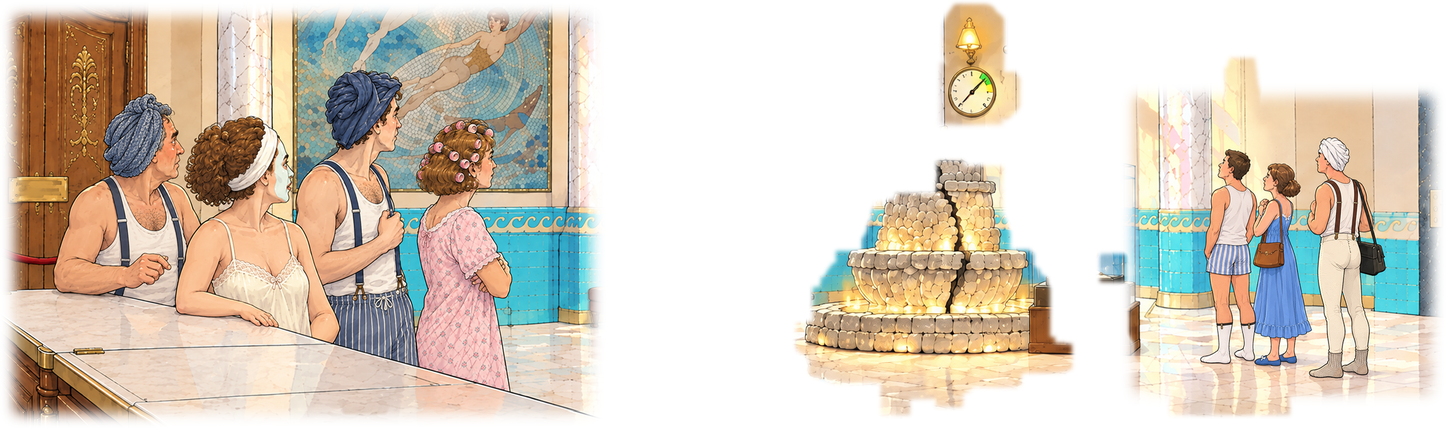
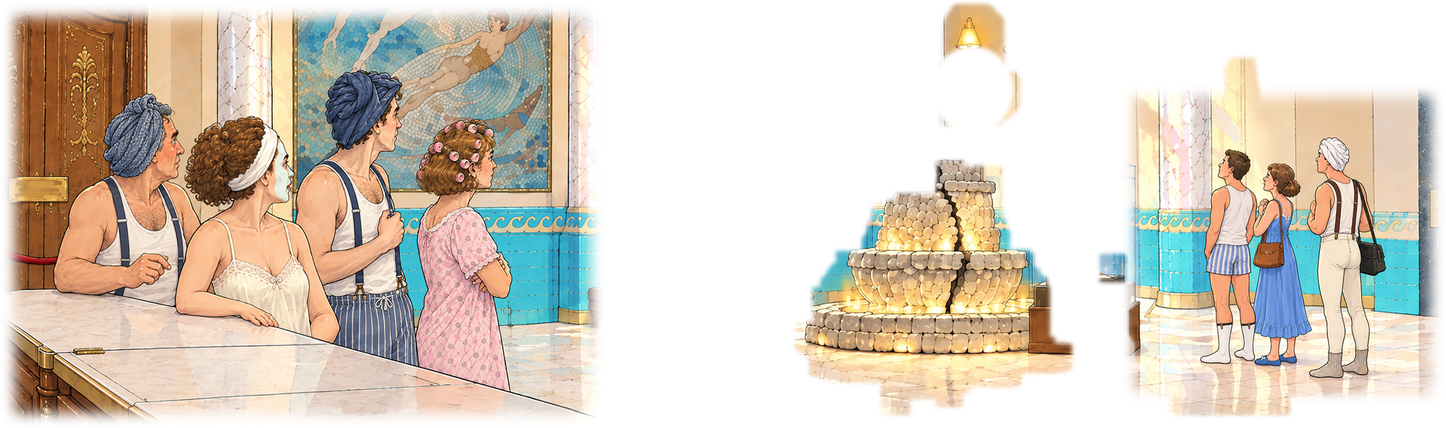
Круг 4 (Акт II) — выбор автора внесён
- слой st_w2_cascade_on без остатка снятого манометра — в assets/, прежний в work/orig_gfx/cutouts/
- W4.stairs.no_plan — строка автора (правки, AUTHOR_LINES, ТЗ, итог, слой, прохождение)
- лампа у кнопки каскада — только при включённом каскаде (спека §2.2, §3)
- темы совета witness, down — как предложено (SLOT_FLAGS)

Claude-Session: https://claude.ai/code/session_011an6ZJykkNMxyQLBZGP5aJ

Changed region(s): [[0.6224, 0.0911, 0.7158, 0.3037]]

diff --git a/PROJECT_STATUS_HYDROUDAR.md b/PROJECT_STATUS_HYDROUDAR.md
@@ -1,9 +1,10 @@
 # PROJECT_STATUS_HYDROUDAR — «Латунный янычар: Гидроудар» (BJ3)
 
-Обновлено: 14.10.2026, вечер (Акт II собран и играбелен, круг 4 выбора на странице); до того — 12.10.2026, ночь (звук готов: 66 из 66 в `assets/audio/`); до того — звук: З1 и З2 приняты и в `assets/`, 25 из 66; до того — звук: пакет З1 на приёмке; до того — 12.10.2026, поздняя ночь (пакет 8 принят и в `assets/` — графика готова: 264 из 264); до того — пакет 8 на приёмке; до того — 12.10.2026, ночь (пакет 7 — носители документов и три плана — принят и в `assets/`); до того — 12.10.2026, вечер (пакет 6 принят и в `assets/`); до того — 12.10.2026, позже (пакет 6 — юбка тележки и 17 кадров немых сцен — на приёмке); до того — 12.10.2026 (пакет 5 принят и в `assets/`; тёмные кадры до появления Кухтулху); до того — 11.10.2026, поздний вечер (пакет 5 — W1, тележка у лестницы W4, кадр прибытия вниз и щупальца, оттиски — на приёмке); до того — 11.10.2026, ночь (пакет 4, состояния Z13, манометры, новый финал — приняты и в `assets/`; до того — пакет 4 — низ: основа Z13, состояния W5/W6 — принят и в `assets/`, ветка `claude/keen-mayer-h74kke`); до того — пакет 3 принят, PR #15 слит в `main`. Работа — от `main`; репозиторий `proshot82/Hydroshock`.
+Обновлено: 14.10.2026, поздний вечер (круг 4 по Акту II внесён); до того — 14.10.2026, вечер (Акт II собран и играбелен, круг 4 выбора на странице); до того — 12.10.2026, ночь (звук готов: 66 из 66 в `assets/audio/`); до того — звук: З1 и З2 приняты и в `assets/`, 25 из 66; до того — звук: пакет З1 на приёмке; до того — 12.10.2026, поздняя ночь (пакет 8 принят и в `assets/` — графика готова: 264 из 264); до того — пакет 8 на приёмке; до того — 12.10.2026, ночь (пакет 7 — носители документов и три плана — принят и в `assets/`); до того — 12.10.2026, вечер (пакет 6 принят и в `assets/`); до того — 12.10.2026, позже (пакет 6 — юбка тележки и 17 кадров немых сцен — на приёмке); до того — 12.10.2026 (пакет 5 принят и в `assets/`; тёмные кадры до появления Кухтулху); до того — 11.10.2026, поздний вечер (пакет 5 — W1, тележка у лестницы W4, кадр прибытия вниз и щупальца, оттиски — на приёмке); до того — 11.10.2026, ночь (пакет 4, состояния Z13, манометры, новый финал — приняты и в `assets/`; до того — пакет 4 — низ: основа Z13, состояния W5/W6 — принят и в `assets/`, ветка `claude/keen-mayer-h74kke`); до того — пакет 3 принят, PR #15 слит в `main`. Работа — от `main`; репозиторий `proshot82/Hydroshock`.
 
 ## Точка входа для новой сессии
 
+- ★★★★★★★★★★★★★★★★★★★★★★★★★★ **14.10.2026, поздний вечер — КРУГ 4 (АКТ II) ВЫБРАН АВТОРОМ И ВНЕСЁН. Игра (та же ссылка): https://claude.ai/artifact/E2YwhX4ZapWa6rPZ721VLQ.** Манометр убран из слоя `st_w2_cascade_on` (в `assets/`, прежний — `work/orig_gfx/cutouts/`); реплика `W4.stairs.no_plan` — строка автора «Ключ вроде подходит. Но мне мама всегда запрещала ходить голым неизвестно куда.»; лампа у кнопки каскада — только при включённом каскаде (спека §2.2, §3); темы совета `witness`, `down` — как предложено (SLOT_FLAGS). Ветка `claude/intelligent-goodall-mvl72a`, черновой PR #23. **Дальше:** Акт III по той же схеме (`design/logic/ACT3_LOGIC.md`, `check_logic.py 3`, автопрохождение), затем IV и шаг 6.
 - ★★★★★★★★★★★★★★★★★★★★★★★★★ **14.10.2026, вечер — АКТ II СОБРАН И ИГРАБЕЛЕН В БРАУЗЕРЕ. Игра (та же ссылка): https://claude.ai/artifact/E2YwhX4ZapWa6rPZ721VLQ — после конца Акта I кнопка «Дальше». Круг 4 выбора (Акт II, четыре вопроса): https://claude.ai/artifact/9j3eFwwkW88PBjMqBSBxaL.** Ветка `claude/intelligent-goodall-mvl72a`. Сессия стартовала с ветки, совпадающей с `origin/main` (41d3d3d, слияние PR #22); открытых PR не было; впереди `main` только старые хвосты (`art-archive`, `gifted-faraday`, `intelligent-hypatia`). **Сделано:** `design/logic/ACT2_LOGIC.md`; каскад — экранный флаг `scr_cascade` с областью W2/Z04/Z05 (Р7); плёнки P05 на стекле и документы-планы; переход Акт I → Акт II; `check_logic.py 1 2` — чисто (перебор по значимым флагам: 1 232 и 3 362 состояния); листы зон `verify_zones.py 2`; тесты логики 10/10; автопрохождение Актов I–II мышью — AUTOPLAY OK; WEB SMOKE OK; `docs/WALKTHROUGH_SPOILERS.md` пересобран. Подробно — `docs/BJ3_BUILD_PLAN.md`, «Акт II собран». **Ждёт автора (страница выбора, круг 4):** (1) манометр, оставшийся в слое `st_w2_cascade_on`, — кандидат без него (`work/higgsfield/candidates/act2_fix_1014/`, в превью уже подставлен); (2) новая реплика `W4.stairs.no_plan` (предложение); (3) лампа у кнопки каскада на Z04 — только при включённом каскаде (расхождение спеки §2.2/§3); (4) темы совета `witness`, `down` (уточнение SLOT_FLAGS). **На взгляд автора (можно поменять):** из вестибюля в прачечную — левая дверь, в зал — деревянная дверь за гостями (в тексте «слева прачечная, прямо зал»); к экспонату — глагол у тележки, у экспоната вид из-под юбки и «Назад за стойку» справа; глаголы-переходы и подписи зон — мои; стингеры решения загадок и реликвий (в Акте I их нет). **Дальше:** ответы по кругу 4 → Акт III (`design/logic/ACT3_LOGIC.md`, `check_logic.py 3`, автопрохождение), затем IV и шаг 6.
 - ★★★★★★★★★★★★★★★★★★★★★★★★ **14.10.2026 — АКТ I ЗАКРЫТ ПО ЗАМЕЧАНИЯМ АВТОРА; PR #22 СЛИТ В `main` («сливай»).** Шов тревожной темы принят. Игра (Акт I): https://claude.ai/artifact/E2YwhX4ZapWa6rPZ721VLQ; страница выбора: https://claude.ai/artifact/9j3eFwwkW88PBjMqBSBxaL. **Следующая сессия:** шаги 2–4 плана сборки (`docs/BJ3_BUILD_PLAN.md`) для Акта II — `design/logic/ACT2_LOGIC.md` по образцу Акта I (экранный флаг каскада `scr_*`, Р7), `check_logic.py 2`, движок, автопрохождение; затем Акты III–IV и полная проверка (шаг 6). Музыка: Акт I — `bgm_resort` до удара, `bgm_hotel_tense` после; Акт II — `bgm_hotel`.
 - ★★★★★★★★★★★★★★★★★★★★★★★ **14.10.2026 — ТРЕВОЖНАЯ ТЕМА ВЫБРАНА: «Крадущийся саспенс» (дубль 2), в игре после удара (только Акт I).** Шов курортной темы принят. Ждёт: шов новой тревожной петли (страница https://claude.ai/artifact/9j3eFwwkW88PBjMqBSBxaL). Дальше по плану — Акты II–IV (шаги 2–4).

diff --git a/docs/BJ3_BUILD_PLAN.md b/docs/BJ3_BUILD_PLAN.md
@@ -105,6 +105,8 @@ DESIGN_BIBLE §13 (решение 07.10.2026) оставляет выбор на
 
 **Акт II собран (14.10.2026).** Логика — `design/logic/ACT2_LOGIC.md` (13 видов: W2, стойка Z04, экспонат Z05, прачечная W3 с Z06–Z08, зал W4 с Z09–Z12, номер W1; 60 зон, 135 правил; разговор с Изольдой — меню `talk`; вступление `open`, сцены `cause`, `duty`, `stairs`). Новое в формате и движке: (1) **экранный флаг с областью** — каскад `scr_cascade` (Р7) живёт на W2, Z04, Z05 и гаснет при уходе в прачечную, зал или номер; флаг графа `cascade_on` остаётся навсегда; экранные флаги в сейв не идут; (2) условие `вид=…`; (3) кадр `вид:Z04+слой` — вид в нынешнем состоянии и слои поверх; (4) **плёнки P05** — три плана с подписями по `docs/assets/plans_markers.json` (стопка по рамкам, кривые стопки «купол / подписи / фасад», по люку), на стекле зума Z10 и во весь экран; документы `DOC.map_*` — план на подсвеченном стекле; (5) заимствованные реплики Акта I (осмотр вантуза и меню, отказы); (6) конец акта → «Дальше» → следующий акт с накопленными флагами. Проверка `check_logic.py` теперь различает состояния только по флагам, от которых зависит, куда игрок может прийти (необязательные находки перебор не множат): Акт I — 1 232 состояния, Акт II — 3 362; тупиков нет, все 23 действия графа Акта II срабатывают при своих условиях, все слоты звучат. Тесты логики — 10 (4 новых для Акта II), автопрохождение — Акт I, «Дальше», Акт II целиком (68 проверок Акта II, ошибок страницы нет), дымовой тест. **Решения по ходу, на взгляд автора** (страница выбора, круг 4): новая реплика `W4.stairs.no_plan` (ключ есть, планы не совмещены — спуск B15 по графу требует совмещённых планов, а реплики не было); лампа у кнопки каскада и на крупном плане горит только при включённом каскаде (в спеке на Z04 — весь акт); темы совета `witness` (открыта с сшитых заявок) и `down` (до конца акта); слой `st_w2_cascade_on` с остатком снятого манометра — кандидат без него (`work/higgsfield/candidates/act2_fix_1014/`). Звук: стингер `sting_solved` на решении загадок P04–P08, `sting_relic` на реликвиях (в Акте I стингеров нет — вопрос автору).
 
+**Круг 4 — выбор автора 14.10.2026, внесено.** (1) Манометр из слоя каскада убрать — кандидат в `assets/gfx/cutouts/st_w2_cascade_on.png`, прежний — `work/orig_gfx/cutouts/`; спека §2.2. (2) `W4.stairs.no_plan` — строка автора: «Ключ вроде подходит. Но мне мама всегда запрещала ходить голым неизвестно куда.» (точка в конце добавлена; правка через `texts/rewrite/ACT2_TEXTS_EDITS.md`, строка в `texts/AUTHOR_LINES.json`, итог, слой и прохождение пересобраны). (3) Лампа у кнопки каскада — горит только при включённом каскаде, на W2 и Z04 (спека §2.2, §3). (4) Темы совета `witness` и `down` — как предложено (SLOT_FLAGS, Акт II).
+
 ## 5. Как проверяем
 
 - **DoD DESIGN_BIBLE §16, все 16 пунктов:**

diff --git a/docs/BJ3_ASSET_SPEC.md b/docs/BJ3_ASSET_SPEC.md
@@ -178,8 +178,8 @@
 | `st_w2_forms1.png` | один скреплённый степлером бланк | `requests_stapled` |
 | `st_w2_complaints.png` | стопка жалоб у локтя Изольды | `act` ≥ 3 |
 | `st_w2_kefir.png` | бутылка кефира и накладная на столешнице стойки | `kefir_ready` ∧ ¬`payment_loaded` |
-| `st_w2_pump_lamp.png` | лампа у кнопки каскада горит | `cascade_on` ∨ кадр `OPEN.demo` |
-| `st_w2_cascade_on.png` | аттракцион включён: подсветка камней каскада горит, бра над каскадом горит (воды нет, камни сухие); **толпа вестибюля повёрнута к каскаду** (слой толпы заменяется: спины и профили к стойке, лица к камням) — ширма для витрины; то же в открытии акта | `cascade_on` ∨ кадр `OPEN.demo` |
+| `st_w2_pump_lamp.png` | лампа у кнопки каскада горит | каскад работает сейчас (экранное состояние движка, Р7) ∨ кадр `OPEN.demo` |
+| `st_w2_cascade_on.png` | аттракцион включён: подсветка камней каскада горит, бра над каскадом горит (воды нет, камни сухие); **толпа вестибюля повёрнута к каскаду** (слой толпы заменяется: спины и профили к стойке, лица к камням) — ширма для витрины; то же в открытии акта | каскад работает сейчас (экранное состояние движка, Р7) ∨ кадр `OPEN.demo`; манометра на стене нет (решение автора 14.10.2026: остаток снятого 11.10 прибора убран из слоя) |
 | `st_w2_vitrine_open.png` | дверца витрины открыта | `vitrine_open` |
 | `st_w2_lowdrawer_open.png` | нижний ящик стойки выдвинут, пуст | `relic_r3` |
 
@@ -318,7 +318,7 @@
 | `st_z04_map.png` | вкладыш с картой в подставке | ¬`has_hotel_map` |
 | `st_z04_forms3.png` | три бланка заявок | ¬`requests_stapled` |
 | `st_z04_forms1.png` | один скреплённый бланк | `requests_stapled` |
-| `st_z04_pump_lamp.png` | лампа у кнопки каскада горит | `cascade_pump_dry` |
+| `st_z04_pump_lamp.png` | лампа у кнопки каскада горит | каскад работает сейчас (экранное состояние движка, Р7; решение автора 14.10.2026 — как на W2) |
 | `st_z04_drawer_kefir.png` | верхний ящик выдвинут, в нём бутылка кефира | кадры `TALK.req.cut`, `SEQ.iz.payment` |
 | `st_z04_lowdrawer_mug.png` | нижний ящик выдвинут, в нём эмалированная кружка с отбитым краем | кадры `Z04.lowdrawer.open`, `Z04.mug.act4` |
 | `st_z04_lowdrawer_empty.png` | нижний ящик выдвинут, пуст | `relic_r3` |

diff --git a/docs/BJ3_SLOT_FLAGS.md b/docs/BJ3_SLOT_FLAGS.md
@@ -238,7 +238,7 @@
 | `W4.hatch.look` | `room:W4`, люк под стеклом | — | — |
 | `W4.stairs.look` | `room:W4`, дверь «Служебное помещение» ∧ ¬`stairs_open` | — | — |
 | `W4.stairs.locked` | `room:W4`, открыть дверь ∧ ¬`has_stairs_key` | — (D30) | — |
-| `W4.stairs.no_plan` | `room:W4`, открыть дверь ∧ `has_stairs_key` ∧ ¬`topology_known` (добавлено при сборке 14.10.2026, на решение автора) | — | — |
+| `W4.stairs.no_plan` | `room:W4`, открыть дверь ∧ `has_stairs_key` ∧ ¬`topology_known` (добавлено при сборке 14.10.2026, решение автора 14.10.2026) | — | — |
 | `Z09.board.look` | `zoom:Z09` ∧ ¬`knows_plate_under_paint` | B11_inspect_board → `DOC.paint_act` | `knows_plate_under_paint`, `knows_paint_fresh`, `paint_act_read`, `chalk_sample_seen` |
 | `Z09.chalk.look` | `zoom:Z09` ∧ `chalk_sample_seen`, меловое «НАШЕ» на раме | — | — |
 | `Z09.paint.rub` | `zoom:Z09` ∧ `knows_plate_under_paint` ∧ ¬`name_revealed`, тереть пальцами | — (D20) | — |
@@ -332,10 +332,10 @@
 | `HINT.paint.1` | тема `paint`: `knows_plate_under_paint` ∧ ¬`name_revealed` (по желанию); ступень 0 | — | ступень 1, `hint.lock` |
 | `HINT.paint.2` | тема `paint`; ступень 1 | — | ступень 2, `hint.lock` |
 | `HINT.paint.3` | тема `paint`; ступень ≥ 2 | — | ступень 3, `hint.lock` |
-| `HINT.witness.1` | тема `witness`: `layoff_read` ∧ `requests_stapled` ∧ ¬`iz_admits_facts`; ступень 0 | — | ступень 1, `hint.lock` |
+| `HINT.witness.1` | тема `witness`: `requests_stapled` ∧ ¬`iz_admits_facts` (решение автора 14.10.2026: третья ступень сама велит прочитать распоряжение — без этого совет молчал бы); ступень 0 | — | ступень 1, `hint.lock` |
 | `HINT.witness.2` | тема `witness`; ступень 1 | — | ступень 2, `hint.lock` |
 | `HINT.witness.3` | тема `witness`; ступень ≥ 2 | — | ступень 3, `hint.lock` |
-| `HINT.down.1` | тема `down`: `has_stairs_key` ∧ ¬`stairs_open`; ступень 0 | — | ступень 1, `hint.lock` |
+| `HINT.down.1` | тема `down`: `has_stairs_key` ∧ ¬`midpoint_known` (решение автора 14.10.2026: до конца акта — внизу ещё дверь и стук); ступень 0 | — | ступень 1, `hint.lock` |
 | `HINT.down.2` | тема `down`; ступень 1 | — | ступень 2, `hint.lock` |
 | `HINT.down.3` | тема `down`; ступень ≥ 2 | — | ступень 3, `hint.lock` |
 | `DOC.notice_counter` | открыт из `TALK.iz.folder` | — | — |

diff --git a/texts/act2/BRIEF_ACT2_TEXTS.md b/texts/act2/BRIEF_ACT2_TEXTS.md
@@ -504,7 +504,7 @@
 | `W4.hatch.look` | ★ | Осмотр люка под стеклом | Люк старого источника под подсвеченным стеклом, табличка «Наследие». Он здесь со времён водолечебницы — его не передвинешь | `lap` | 1–2 |
 | `W4.stairs.look` |  | Осмотр двери «Служебное помещение» | Обычная служебная дверь | `lap` | 1 |
 | `W4.stairs.locked` |  | Открыть дверь до ключа | Заперто | `lap` | 1 |
-| `W4.stairs.no_plan` |  | Открыть дверь ключом, пока плёнки не совмещены (добавлено при сборке 14.10.2026: спуск B15 требует совмещённых планов, а реплики на этот случай не было; на решение автора) | Ключ подходит, но спускаться вслепую Лапидус не станет: сначала понять по планам, что там внизу. Не подсказывать, как совмещать | `lap` | 1 |
+| `W4.stairs.no_plan` |  | Открыть дверь ключом, пока плёнки не совмещены (добавлено при сборке 14.10.2026: спуск B15 требует совмещённых планов, а реплики на этот случай не было; решение автора 14.10.2026) | Строка автора дословно: «Ключ вроде подходит. Но мне мама всегда запрещала ходить голым неизвестно куда.» | `lap` | 1 |
 | `Z09.board.look` | ★ | Осмотр доски почёта (P07) | Советские рамки; среди них свежий бежевый прямоугольник; под краской края и шурупы таблички; табличка маляров «Осторожно, окрашено»; приколот акт (откроется `DOC.paint_act`); на раме доски — меловое «НАШЕ» крупными печатными буквами | `lap` | 1–3 |
 | `Z09.chalk.look` |  | Осмотр мелового «НАШЕ» на раме | Мел, крупные печатные буквы, по-хозяйски; кто-то пометил доску как свою — чьей рукой, Лапидус не знает (образец почерка для Акта III) | `lap` | 1 |
 | `Z09.paint.rub` | ★ | Стереть краску пальцами | Краска мягкая, слой тонкий, но мыльные пальцы скользят и размазывают: нужна жёсткая кромка, которую мыло не размочит | `lap` | 1–2 |

diff --git a/docs/WALKTHROUGH_SPOILERS.md b/docs/WALKTHROUGH_SPOILERS.md
@@ -1828,9 +1828,9 @@
 #### Здесь же — зал прекраснодушия (W4)
 
 ##### `W4.stairs.no_plan`
-<sub>когда: room:W4, открыть дверь ∧ has_stairs_key ∧ ¬topology_known (добавлено при сборке 14.10.2026, на решение автора) · граф: — · ставит: —</sub>
+<sub>когда: room:W4, открыть дверь ∧ has_stairs_key ∧ ¬topology_known (добавлено при сборке 14.10.2026, решение автора 14.10.2026) · граф: — · ставит: —</sub>
 
-- **ЛАПИДУС** _(lap_soap_neutral)_: Ключ подходит. Только вслепую я туда не полезу: сначала пойму по планам, что там внизу и куда эта лестница ведёт.
+- **ЛАПИДУС** _(lap_soap_neutral)_: Ключ вроде подходит. Но мне мама всегда запрещала ходить голым неизвестно куда.
 
 #### Здесь же — в разговоре, меню и сценах
 
@@ -2007,7 +2007,7 @@
 - **ПРЕДОК** _(anc_smug)_: Соскобли краску ламинированным меню.
 
 ##### `HINT.witness.1`
-<sub>когда: тема witness: layoff_read ∧ requests_stapled ∧ ¬iz_admits_facts; ступень 0 · граф: — · ставит: ступень 1, hint.lock</sub>
+<sub>когда: тема witness: requests_stapled ∧ ¬iz_admits_facts (решение автора 14.10.2026: третья ступень сама велит прочитать распоряжение — без этого совет молчал бы); ступень 0 · граф: — · ставит: ступень 1, hint.lock</sub>
 
 - **ПРЕДОК** _(anc_calm)_: Свидетель есть. Сидит за стойкой и смотрит мимо тебя.
 
@@ -2022,7 +2022,7 @@
 - **ПРЕДОК** _(anc_smug)_: Прочитай распоряжение о сокращении и скажи ей: дело сантехника берёшь на себя.
 
 ##### `HINT.down.1`
-<sub>когда: тема down: has_stairs_key ∧ ¬stairs_open; ступень 0 · граф: — · ставит: ступень 1, hint.lock</sub>
+<sub>когда: тема down: has_stairs_key ∧ ¬midpoint_known (решение автора 14.10.2026: до конца акта — внизу ещё дверь и стук); ступень 0 · граф: — · ставит: ступень 1, hint.lock</sub>
 
 - **ПРЕДОК** _(anc_calm)_: Ключ без двери, что трофей без крепости.
 

diff --git a/texts/TEXT_LAYER.md b/texts/TEXT_LAYER.md
@@ -16,7 +16,7 @@
 | Акт | Слотов | Реплик | Документов | Строк автора |
 |---|---|---|---|---|
 | I «Комплимент от заведения» | 156 | 232 | 5 | 10 |
-| II «Старший по воде» | 168 | 257 | 17 | 4 |
+| II «Старший по воде» | 168 | 257 | 17 | 5 |
 | III «Улучшения номер три» | 134 | 217 | 12 | 4 |
 | IV «Приёмка» | 77 | 168 | 7 | 2 |
 
@@ -1502,10 +1502,11 @@ lap | lap_soap_neutral | CLUE | Служебная дверь, без всяко
 lap | lap_soap_tired | STATE | Заперто.
 
 ### W4.stairs.no_plan
-> Когда: Открыть дверь ключом, пока плёнки не совмещены (добавлено при сборке 14.10.2026: спуск B15 требует совмещённых планов, а реплики на этот случай не было; на решение автора)
-> Обязано быть: Ключ подходит, но спускаться вслепую Лапидус не станет: сначала понять по планам, что там внизу. Не подсказывать, как совмещать
+> Когда: Открыть дверь ключом, пока плёнки не совмещены (добавлено при сборке 14.10.2026: спуск B15 требует совмещённых планов, а реплики на этот случай не было; решение автора 14.10.2026)
+> Обязано быть: Строка автора дословно: «Ключ вроде подходит. Но мне мама всегда запрещала ходить голым неизвестно куда.»
 > Говорят: lap · реплик: 1
-lap | lap_soap_neutral | CHAR | Ключ подходит. Только вслепую я туда не полезу: сначала пойму по планам, что там внизу и куда эта лестница ведёт.
+> 🔒 Строка автора — перенести дословно: «Ключ вроде подходит. Но мне мама всегда запрещала ходить голым неизвестно куда.»
+lap | lap_soap_neutral | CHAR,JOKE | Ключ вроде подходит. Но мне мама всегда запрещала ходить голым неизвестно куда.
 
 ### Z09.board.look
 > ★ ключевой слот

diff --git a/texts/rewrite/ACT2_TEXTS_EDITS.md b/texts/rewrite/ACT2_TEXTS_EDITS.md
@@ -46,5 +46,5 @@ lap | lap_soap_neutral | CLUE | «Зеркало прекраснодушия».
 lap | lap_soap_ashamed | CHAR,JOKE | Голый Лапидус во весь рост, а где надо — резиновая уточка. Улыбнулся, как велено. Прекраснодушия не прибавилось.
 
 ### W4.stairs.no_plan
-> добавлено при сборке 14.10.2026 (Claude, на решение автора): ключ уже у Лапидуса, а планы ещё не совмещены — спуск B15 по графу требует совмещённых планов (сдача, BS37), реплики на этот случай не было. Предложение, ждёт чтения автора.
-lap | lap_soap_neutral | CHAR | Ключ подходит. Только вслепую я туда не полезу: сначала пойму по планам, что там внизу и куда эта лестница ведёт.
+> добавлено при сборке 14.10.2026: ключ уже у Лапидуса, а планы ещё не совмещены — спуск B15 по графу требует совмещённых планов (сдача, BS37), реплики на этот случай не было. Реплика — строка автора 14.10.2026 (страница выбора, круг 4; точка в конце добавлена).
+lap | lap_soap_neutral | CHAR,JOKE | Ключ вроде подходит. Но мне мама всегда запрещала ходить голым неизвестно куда.

diff --git a/texts/act2/ACT2_TEXTS_FINAL.md b/texts/act2/ACT2_TEXTS_FINAL.md
@@ -210,8 +210,8 @@ lap | lap_soap_neutral | CLUE | Служебная дверь, без всяко
 lap | lap_soap_tired | STATE | Заперто.
 
 ### W4.stairs.no_plan
-> правка: добавлено при сборке 14.10.2026 (Claude, на решение автора): ключ уже у Лапидуса, а планы ещё не совмещены — спуск B15 по графу требует совмещённых планов (сдача, BS37), реплики на этот случай не было. Предложение, ждёт чтения автора.
-lap | lap_soap_neutral | CHAR | Ключ подходит. Только вслепую я туда не полезу: сначала пойму по планам, что там внизу и куда эта лестница ведёт.
+> правка: добавлено при сборке 14.10.2026: ключ уже у Лапидуса, а планы ещё не совмещены — спуск B15 по графу требует совмещённых планов (сдача, BS37), реплики на этот случай не было. Реплика — строка автора 14.10.2026 (страница выбора, круг 4; точка в конце добавлена).
+lap | lap_soap_neutral | CHAR,JOKE | Ключ вроде подходит. Но мне мама всегда запрещала ходить голым неизвестно куда.
 
 ### Z09.board.look
 > голоса нет: живая речь 09.10.2026

diff --git a/work/higgsfield/candidates/act2_fix_1014/README.md b/work/higgsfield/candidates/act2_fix_1014/README.md
@@ -6,4 +6,4 @@
 
 **Где посмотреть.** Страница выбора https://claude.ai/artifact/9j3eFwwkW88PBjMqBSBxaL (круг 4, вопрос 1: было/стало). В превью игры https://claude.ai/artifact/E2YwhX4ZapWa6rPZ721VLQ кандидат уже подставлен сборкой (`build_web.py --try cutouts/st_w2_cascade_on=…`), `assets/` не тронут.
 
-**После «да» автора:** прежний файл — в `work/orig_gfx/cutouts/st_w2_cascade_on__с_прибором_до_14.10.png`, кандидат — в `assets/gfx/cutouts/st_w2_cascade_on.png`.
+**Принято автором 14.10.2026** (страница выбора, круг 4: «убрать прибор»): кандидат перенесён в `assets/gfx/cutouts/st_w2_cascade_on.png`, прежний файл — `work/orig_gfx/cutouts/st_w2_cascade_on__с_прибором_до_14.10.png`; спека §2.2 дополнена.
